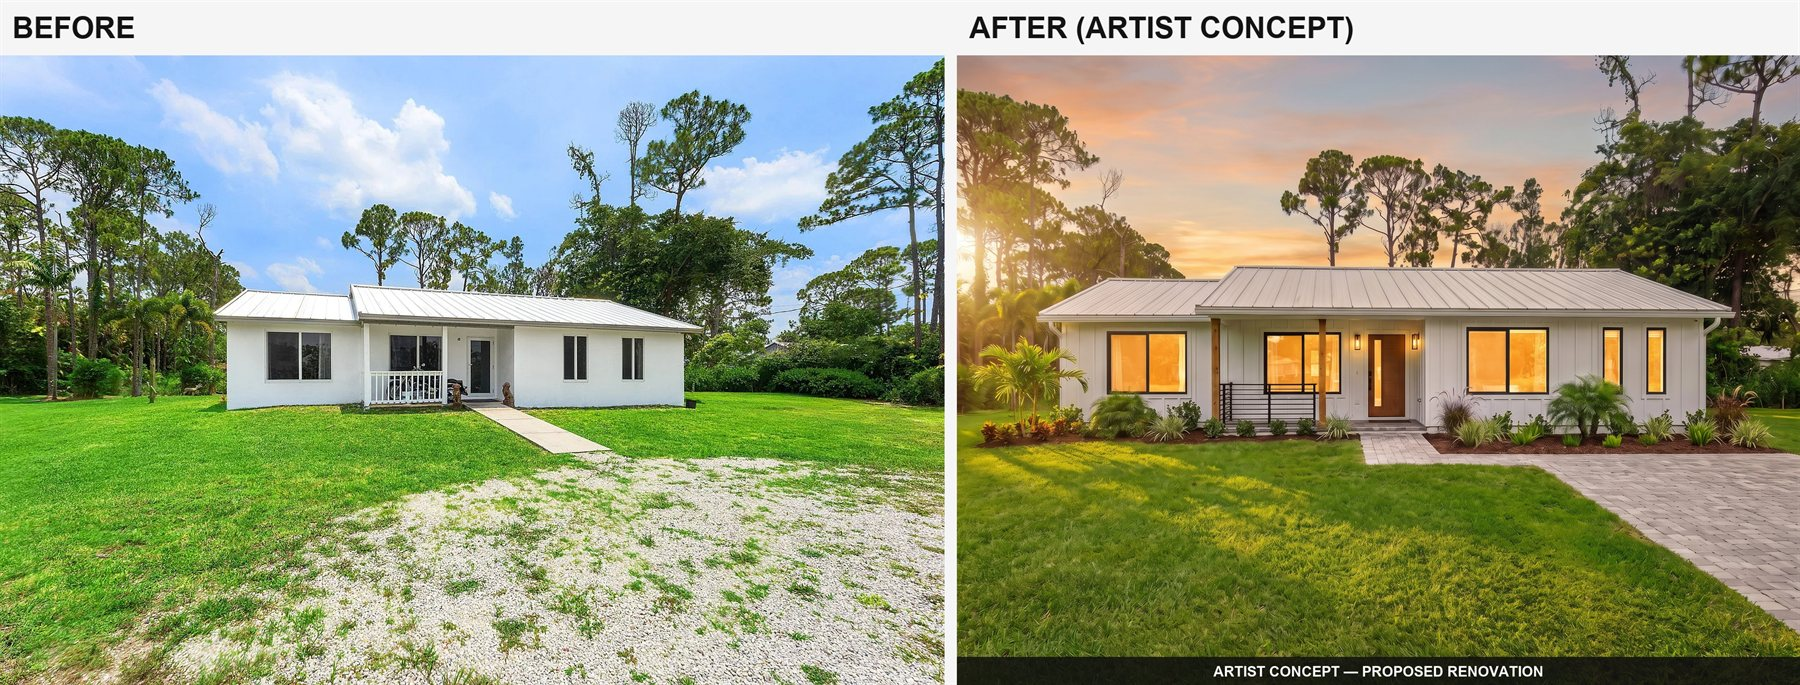
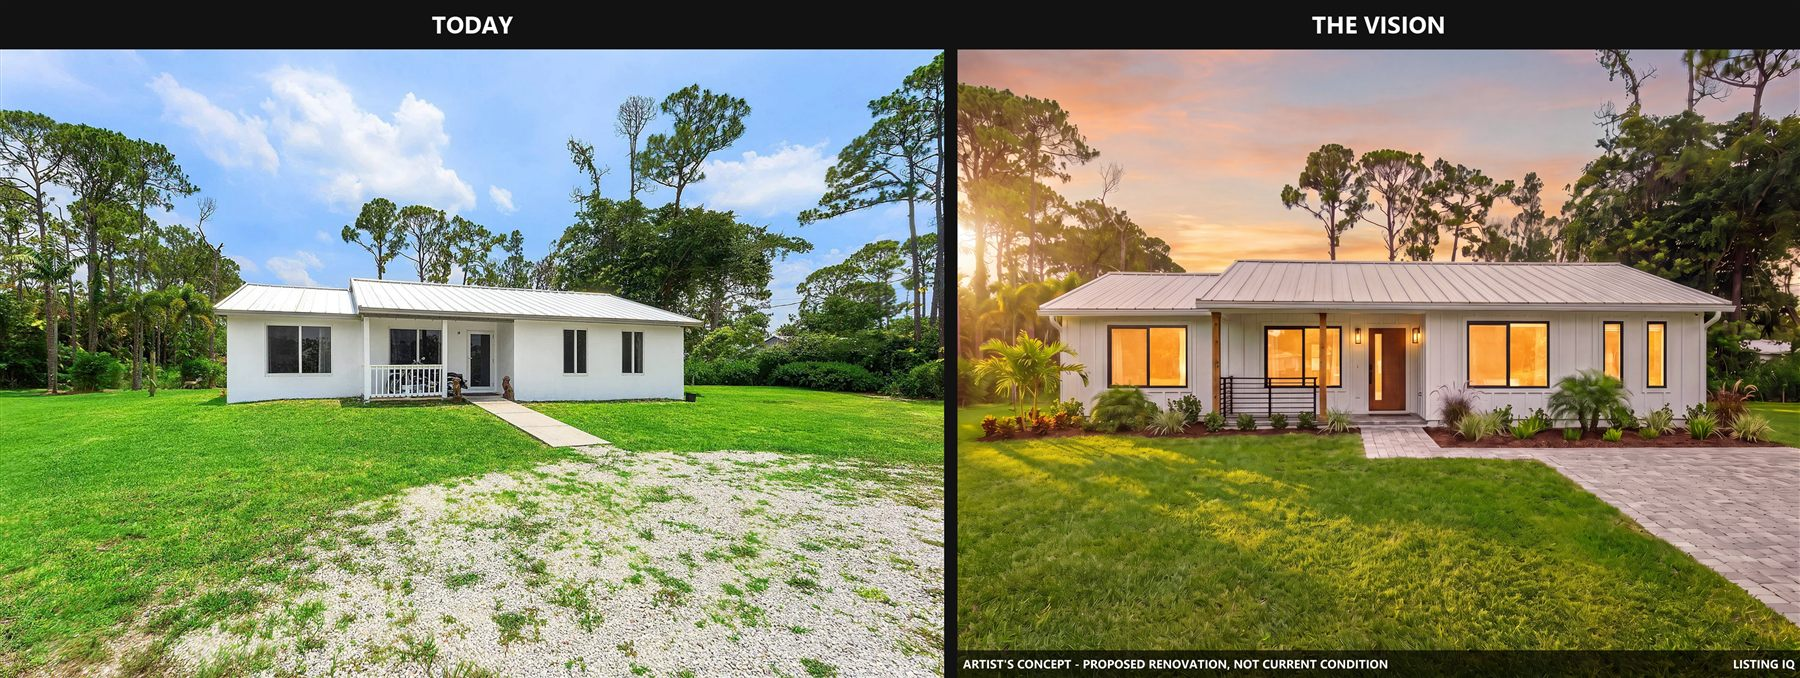
Rebrand + integrity fix: all assets regenerated as LISTING IQ from clean masters
- reno-front.jpg is now the REAL renovated rancher (rebuilt 2026-08-15) --
  homepage 'same house, same bones' demo is finally true (was showing the
  dream build next to the rancher photo)
- reno page: dropped aerial/backyard figures (those were mislabeled dream
  images; no real reno aerial/backyard exists yet)
- every render on the site now carries the ARTIST'S CONCEPT label band
  (restores the compliance rule; note: reverts 3970bb7's clean-composite
  gallery look -- flagged in ACTIVE.md for review)
- kills the last FLIP VISION pixels on the site

diff --git a/p/reno-12944.html b/p/reno-12944.html
@@ -48,16 +48,6 @@
       <img src="../assets/reno-ba-front.jpg" alt="Before and after — front elevation">
       <figcaption>Front elevation — before / after</figcaption>
     </figure>
-    <figure class="frame">
-      <div class="shield"></div>
-      <img src="../assets/reno-aerial.jpg" alt="Renovation concept — aerial">
-      <figcaption>Aerial — renovated</figcaption>
-    </figure>
-    <figure class="frame">
-      <div class="shield"></div>
-      <img src="../assets/reno-backyard.jpg" alt="Renovation concept — backyard">
-      <figcaption>Backyard — renovated</figcaption>
-    </figure>
   </div>
 
   <aside class="buy-panel">
